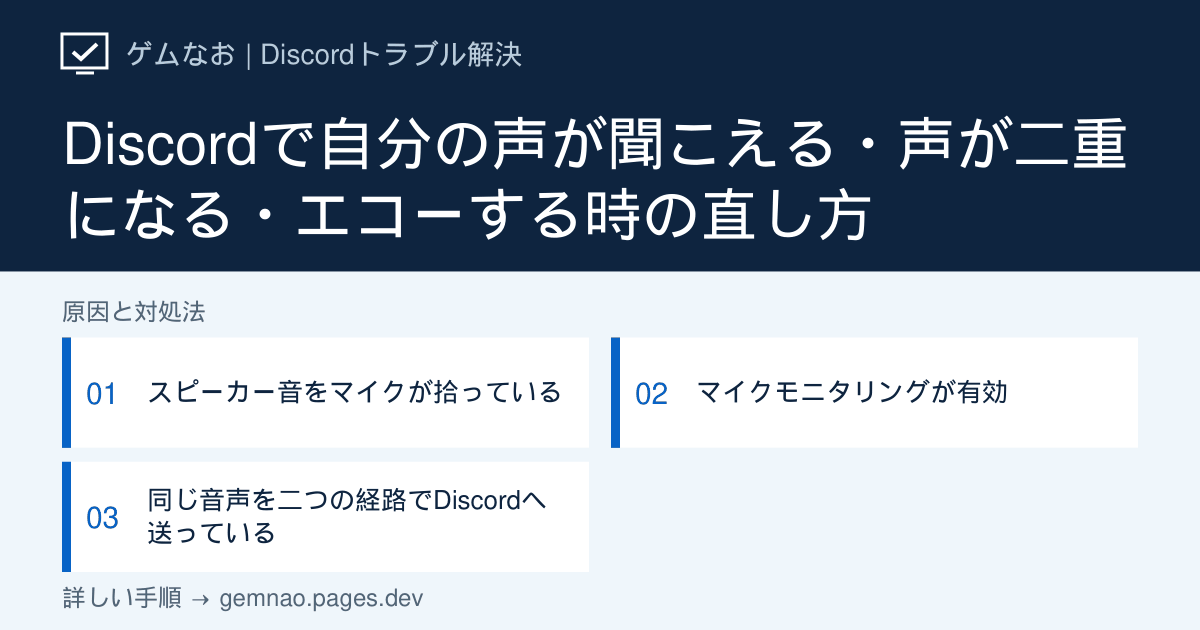
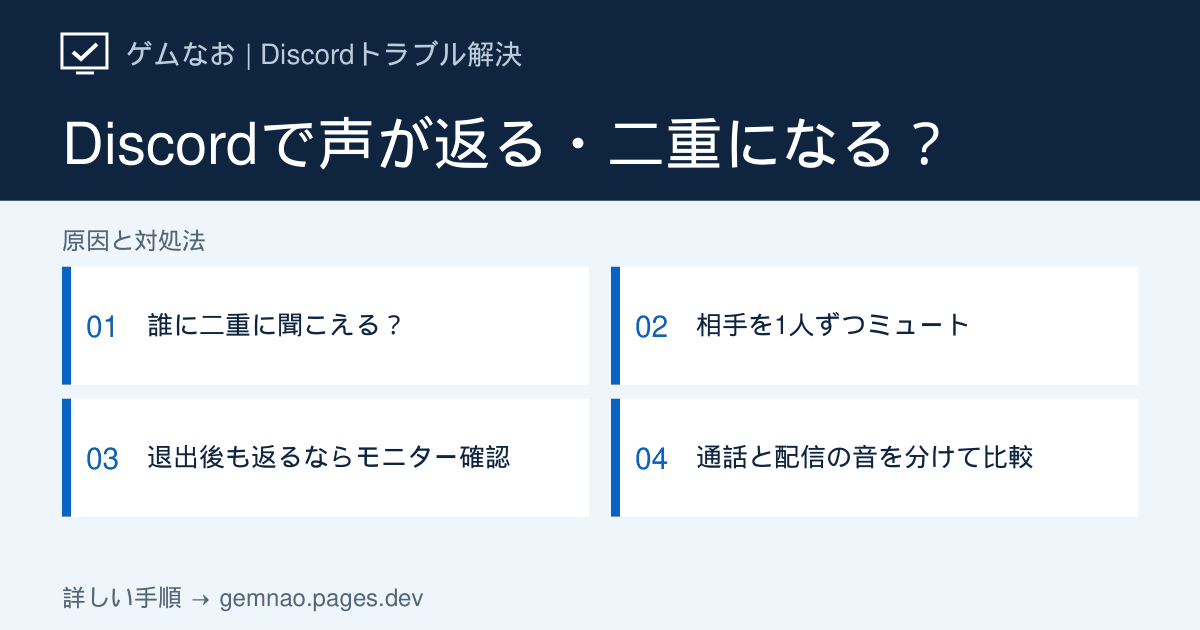
Rewrite Discord echo troubleshooting by audio path

diff --git a/lib/discord-audio-growth-articles.ts b/lib/discord-audio-growth-articles.ts
@@ -117,25 +117,85 @@ export const discordAudioGrowthArticles: DiscordArticle[] = [
   },
   {
     slug: 'echo-double-voice', category: 'audio',
-    title: 'Discordで自分の声が聞こえる・声が二重になる・エコーする時の直し方',
+    title: 'Discordで自分の声が返る・二重になる時の直し方【エコーの原因別】',
     shortTitle: '自分の声が返る・二重・エコー',
-    seoTitle: 'Discordで自分の声が聞こえる・二重になる時の直し方',
-    metaDescription: 'Discordで自分の声が返る、二重に聞こえる、エコーやハウリングが起きる場合の対処法。スピーカー回り込み、モニタリング、二重入力を確認します。',
-    symptom: '通話中に自分の声が遅れて返る、相手から声が二重だと言われる、スピーカー使用時に反響やハウリングが起きる場合の手順です。',
-    target: 'Windows版 Discordデスクトップアプリ',
-    conclusion: 'ヘッドホンで回り込みを止め、Windowsの「このデバイスを聴く」やマイクのダイレクトモニター、OBS等の二重入力を確認します。',
-    quickFixes: ['スピーカーを止めてヘッドホンで通話する', 'Windowsの「このデバイスを聴く」をオフにする', 'OBS・ミキサー・仮想音声機器の二重入力を止める'],
+    seoTitle: 'Discordで自分の声が返る・二重になる原因と直し方',
+    metaDescription: 'Discordのエコーを「自分だけ聞こえる」「相手に二重に届く」「特定の相手との通話だけ」で判定。1人ずつのマイクミュート、Windowsのモニター設定、仮想音声を使わない比較手順を解説します。',
+    symptom: '自分の声が遅れて返ってくる、相手から声が二重だと言われる、通話中に反響する場合の手順です。まず誰が返り音を聞いているかを確認し、設定を変更する人を決めます。',
+    target: 'Windows 11／Windows 10のDiscordデスクトップアプリ',
+    conclusion: '自分の声が返るなら、相手にマイクだけをミュートしてもらい、自分が同じ言葉を話して比べます。特定の相手をミュートすると止まる場合はその人側の音声経路を確認。通話から退出しても自分の声が聞こえる場合は、自分のPCやヘッドセットのモニター機能を確認します。',
+    quickFixes: [
+      'マイクテストを終了し、「誰の声が、誰に二重に聞こえるか」を確認する',
+      '自分の声が返る場合は、相手に1人ずつマイクだけをミュートしてもらい同じ短い言葉で比較する',
+      '止まった相手のスピーカー・音声経路を調べる。退出後も返るなら自分のモニター設定へ進む',
+    ],
+    showStatusCheck: false,
+    diagnosisTitle: '誰に聞こえる？ エコーの確認担当を決める表',
+    diagnosisIntro: 'Aさんが「音声チェック、1、2、3」と1回話し、誰に何回聞こえたかを伝え合います。以下の比較は原因を絞るための手順で、遅延の長さだけでは原因を断定しません。',
+    diagnosis: [
+      { symptom: 'Aさんに自分の声が返る／Bさんのマイクをミュートすると止まる', check: 'Bさんがイヤホンへ替えると、ミュート解除後も返らない？', causeIndex: 2 },
+      { symptom: 'Aさんに自分の声が返る／通話から退出しても聞こえる', check: 'Aさんのマイクテスト・Windows・機器のモニターを確認', causeIndex: 3 },
+      { symptom: 'BさんにはAさんの声が二重に聞こえる／Aさん本人には分からない', check: '別の参加者にも二重か確認し、通話以外の再生音を止める', causeIndex: 4 },
+      { symptom: 'Discordのマイクテスト中だけ自分の声が聞こえる', check: 'テストを終了すると止まるなら、確認用の再生', causeIndex: 1 },
+      { symptom: '人数が増えると返る／原因の人が分からない', check: '話す人以外のマイクを1人ずつ比較する', causeIndex: 1 },
+    ],
     causes: [
-      { title: 'スピーカー音をマイクが拾っている', description: '相手の声がスピーカーから出てマイクへ戻るとエコーになります。', actions: ['ヘッドホンまたはイヤホンへ切り替える', 'スピーカー音量を下げる', 'マイクをスピーカーから離して向きを調整する'] },
-      { title: 'マイクモニタリングが有効', description: 'Windowsやオーディオ機器のモニター機能で自分の声が直接返っている場合があります。', actions: ['Windowsの録音デバイスのプロパティを開く', '「聴く」タブの「このデバイスを聴く」をオフにする', 'マイクやインターフェースのダイレクトモニターも確認する'] },
-      { title: '同じ音声を二つの経路でDiscordへ送っている', description: 'OBS、VoiceMeeter、仮想ケーブルなどで入力が重複すると二重音声になります。', actions: ['Discordの入力デバイスを一つに固定する', 'OBS等のモニター出力を一時停止する', '仮想音声機器を外して通常のマイクで比較する'] },
+      {
+        title: 'まず1人ずつミュートして、声が戻る経路を探す',
+        description: '自分の声が返っていても、設定を直すのが自分とは限りません。相手のスピーカーから出た声が相手のマイクに入り、戻ってくる場合もあります。',
+        actions: [
+          'Discord左下の歯車 →「音声・ビデオ」→マイクテストを確認し、実行中なら「テストを中止」を押す。テスト中の自分の声の再生は確認用の機能',
+          '声が返るAさんは「音声チェック、1、2、3」と1回話す。Bさんは自分のDiscordのマイクアイコンでマイクだけをミュートする。ヘッドホンのアイコンによるスピーカーミュートとは分ける',
+          'Aさんは同じ言葉を再度話す。Bさんのミュート中だけ返り音が止まるなら、Bさんに手順2の確認を依頼する',
+          '3人以上なら同じ方法を1人ずつ繰り返す。1人ずつでは分からない場合は、話すAさん以外を全員ミュートし、1人ずつ解除して再比較する',
+          '全員のマイクをミュートしても返るなら、Aさんが通話を退出して同じ言葉を話す。退出後も聞こえる場合は手順3、通話・配信中だけなら手順4へ進む',
+        ],
+        note: 'ミュートで止まっても、スピーカーからの拾い直しか仮想音声の混入かまでは確定しません。大きなハウリングが出たら先に音量を下げてください。',
+      },
+      {
+        title: '特定の相手をミュートすると止まる：その人の再生音を確認',
+        description: 'Aさんの声がBさん側から戻る場合、Bさんが操作します。Aさんだけイヤホンに替えても、Bさん側の拾い直しは残る場合があります。',
+        actions: [
+          'BさんはPCのスピーカーを止め、イヤホンまたはヘッドホンへ切り替える',
+          'BさんのDiscord左下の歯車 →「音声・ビデオ」で、出力デバイスに使うイヤホン、入力デバイスに実際のマイクを選ぶ',
+          'Bさんはマイクのミュートを解除し、Aさんに同じ言葉を1回話してもらう。Aさんへ返らなくなれば、その状態で通話を続ける',
+          '変わらなければ、同じ部屋のスマートフォンや別PCでも通話音が鳴っていないか確認する。Bさんが仮想ミキサーやループバック入力を使っているなら手順4へ進む',
+        ],
+      },
+      {
+        title: '退出後も自分の声が聞こえる：モニター機能を確認',
+        description: 'モニター機能は、自分のマイク音を自分の耳へ返す機能です。Windows、録音ソフト、ヘッドセット本体が別々に再生していないか調べます。',
+        actions: [
+          'Windows＋Rを押し「mmsys.cpl」と入力してサウンド画面を開く。「録音」タブ → 使用中のマイク →「プロパティ」を開く',
+          '「聴く」タブに「このデバイスを聴く」があれば、現在の状態を控えてチェックを外し「適用」。同じ言葉を話して自分への返り音が止まるか確認する',
+          '項目がない、または変化しない場合は、ヘッドセットの専用アプリやオーディオインターフェースの「サイドトーン」「Direct Monitor」などを確認する。機器の説明書に沿って一時的にオフにし比較する',
+          '録音・配信ソフトも終了して比較する。直ったらDiscordの通話へ戻り、自分への返り音と相手への聞こえ方を別々に確認する',
+        ],
+        note: '自分の声を聞きやすくするためにモニターを使う人もいます。返り音をなくすための比較なので、必要な設定は控えてから変更してください。',
+      },
+      {
+        title: '相手に二重に届く：通話・配信・仮想音声を分けて比較',
+        description: '通話音と配信音を同時に聞いている場合や、仮想ミキサーに同じ音が混ざる場合があります。OBSを起動しているだけで必ず二重になるわけではありません。',
+        actions: [
+          '二重に聞こえるBさんは、Discord通話を残したまま配信の視聴や別の通話アプリを一つずつ止める。Aさんに同じ言葉を話してもらい、通話だけなら1回に戻るか確認する',
+          'Bさんだけ二重で、別の参加者には正常ならBさん側の再生経路を確認する。全員にAさんの声が二重に届くならAさん側の入力を比較する',
+          'AさんはDiscordの「音声・ビデオ」で現在の入力デバイス名を控え、仮想ケーブルやミキサーではなく物理マイクを直接選ぶ。OBS・ボイスチェンジャーなども終了し、同じ言葉で再比較する',
+          '物理マイクでは直るなら、外したソフトを1つずつ戻す。再発した段階の入力・モニター・ループバック経路を見直す。変化がなければ設定を戻し、別のマイクでも同じか比べる',
+        ],
+      },
     ],
-    ifNotFixed: '自分だけが返り音を聞くのか、通話相手全員が二重に聞くのか確認してください。特定の相手との通話だけなら、相手側のスピーカー回り込みも確認してもらいます。',
+    ifNotFixed: '「誰の声が誰に返るか」「誰のミュートで止まるか」「通話退出後も聞こえるか」「物理マイク直接選択で変わるか」を記録してください。マイク・ヘッドセット名、Discordの入力／出力デバイス名、仮想音声ソフトの有無と一緒に伝えると、相談先で同じ状態を確認しやすくなります。',
     faqs: [
-      { question: 'Discordのマイクテスト中に自分の声が聞こえるのは異常ですか？', answer: 'マイクテストでは確認のため自分の声が再生されることがあります。通常通話でも返る場合にこの記事の設定を確認してください。' },
-      { question: 'ノイズ抑制をオンにすれば直りますか？', answer: '軽い回り込みが減る場合はありますが、ヘッドホン利用や二重入力の解消を先に行う方が確実です。' },
+      { question: 'Discordのマイクテストで自分の声が聞こえるのは異常ですか？', answer: 'マイクテストは選択した出力機器から自分の声を再生する機能です。「テストを中止」で止まるなら通常の動作です。テストを終了してから実際の通話で比較してください。' },
+      { question: '自分はイヤホンなのに、なぜ自分の声が返るのですか？', answer: '相手のスピーカーから出た自分の声を相手のマイクが拾っている場合もあります。相手がマイクをミュートすると返り音が止まるか確かめ、その相手の出力先と入力経路を確認します。' },
+      { question: 'ノイズ抑制やエコー除去だけで直せますか？', answer: '音声処理で軽減する場合はありますが、別端末での再生や二重の音声経路が残っていると解決しない場合があります。先にミュートとイヤホンで戻り道を確認し、その後に1項目ずつ比較してください。' },
+      { question: '自分に聞こえる声を消すと、相手にも声が届かなくなりますか？', answer: 'Windowsの「このデバイスを聴く」や機器のモニターは、自分が聞くための設定です。マイクの無効化やDiscordの入力ミュートとは違います。変更後は相手にも声が届いているか確認してください。' },
     ],
-    sources: [voiceGuide, micTest], related: ['voice-cutting-out', 'mic-volume-low', 'cant-hear-voice'], checkedAt: '2026-09-19', status: 'verified',
+    sources: [voiceGuide, micTest, { label: 'Focusrite公式：Direct Monitorとソフトウェア再生の重複・Windowsの「聴く」設定（英語）', url: 'https://support.focusrite.com/hc/de/articles/206849219-Latency-while-using-Direct-Monitor' }],
+    related: ['voice-cutting-out', 'mic-volume-low', 'cant-hear-voice'],
+    checkedAt: '2026-09-28', status: 'verified',
+    ogTitle: 'Discordで声が返る・二重になる？',
+    ogSteps: ['誰に二重に聞こえる？', '相手を1人ずつミュート', '退出後も返るならモニター確認', '通話と配信の音を分けて比較'],
   },
   {
     slug: 'voice-cutting-out', category: 'audio',

diff --git a/lib/og-image-manifest.ts b/lib/og-image-manifest.ts
@@ -9,7 +9,7 @@ export const ogImageManifest: Record<string, string> = {
   "/discord/call-disconnects": "c75567e6",
   "/discord/camera-not-working": "7ef95e75",
   "/discord/crashing": "835e2bab",
-  "/discord/echo-double-voice": "3f0e58c6",
+  "/discord/echo-double-voice": "bf3f502a",
   "/discord/error-1001": "7cb71244",
   "/discord/error-1002": "ead6d712",
   "/discord/error-1003": "aa3963fa",
